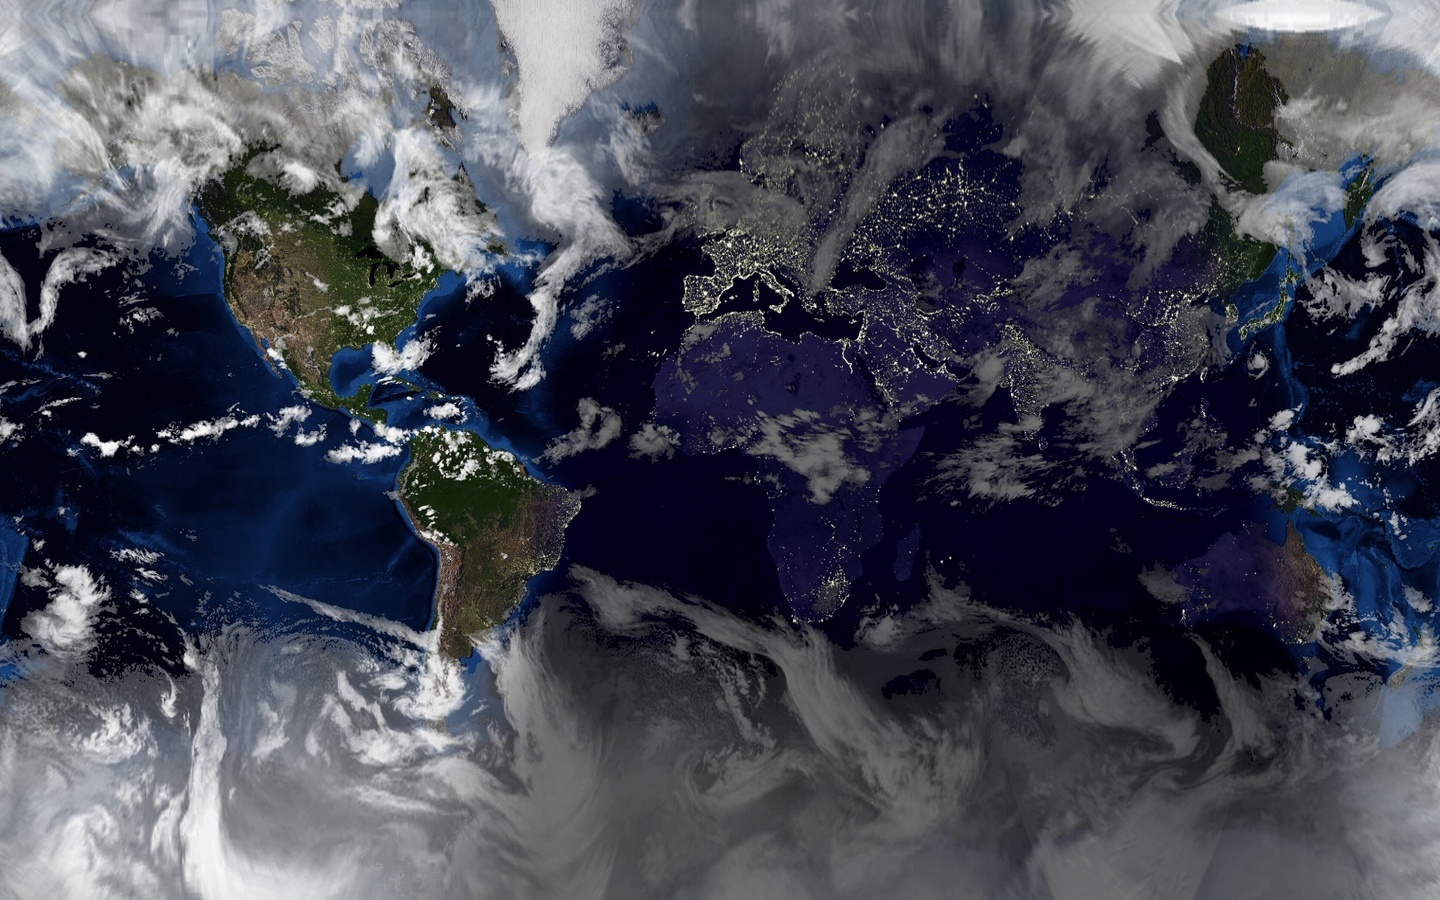
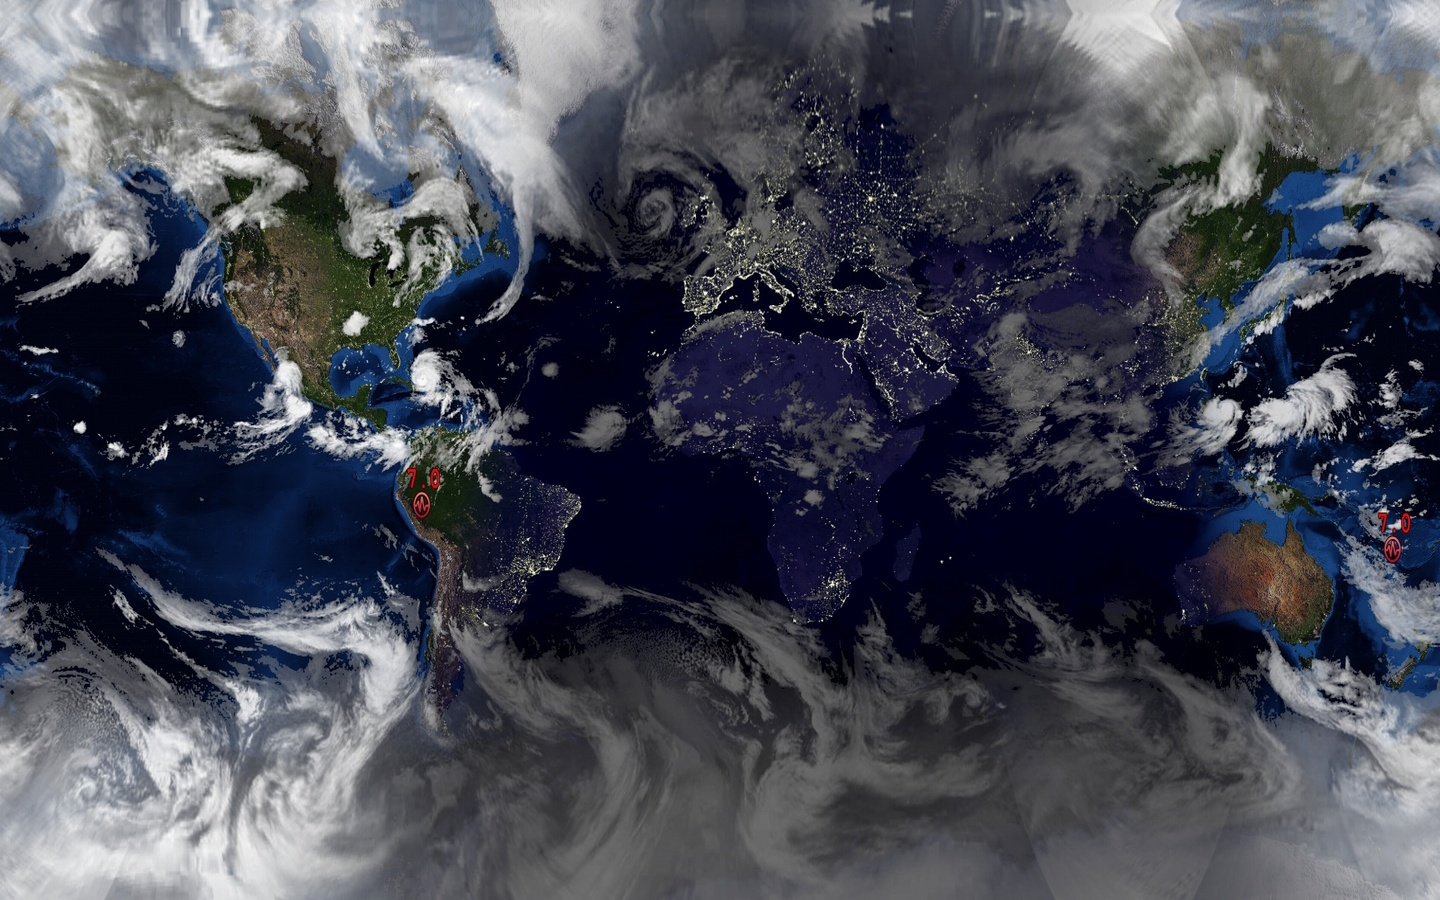
Earthquake, rough implementation

diff --git a/wallpaper.py b/wallpaper.py
@@ -60,6 +60,8 @@ def getXPlanetConfig(scriptDirectory, dayMap, topoMap, nightMap, cloudMap):
 		configContents += "cloud_map=" + cloudMap + "\n"
 	configContents += "cloud_gamma=1.2\n"
 	configContents += "cloud_threshold=123\n"
+	configContents += "marker_file=eq\n"
+	configContents += "marker_fontsize=32\n"
 	
 	configFile = os.path.join(scriptDirectory, "temp.config")
 	print "Creating", configFile
